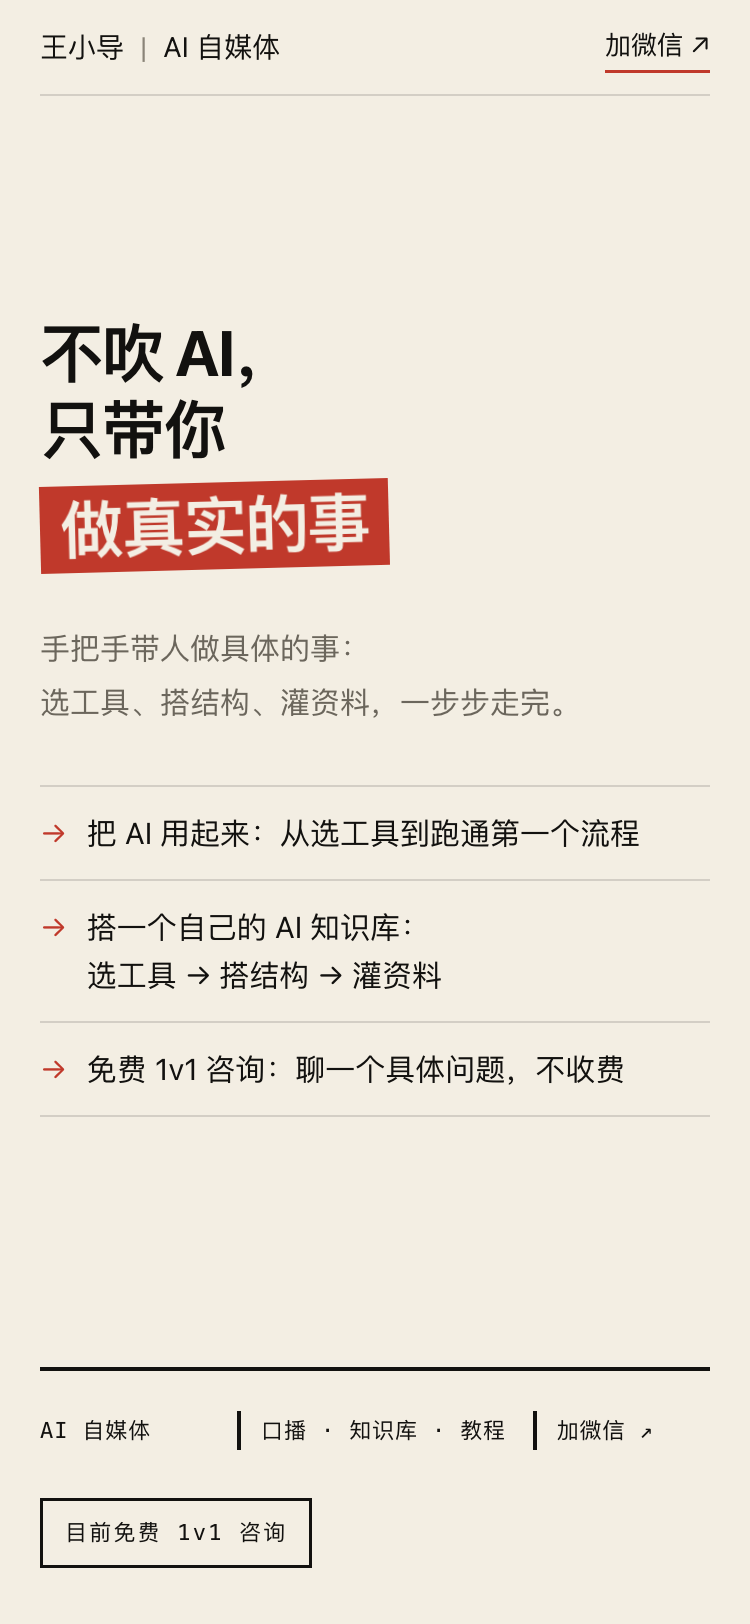
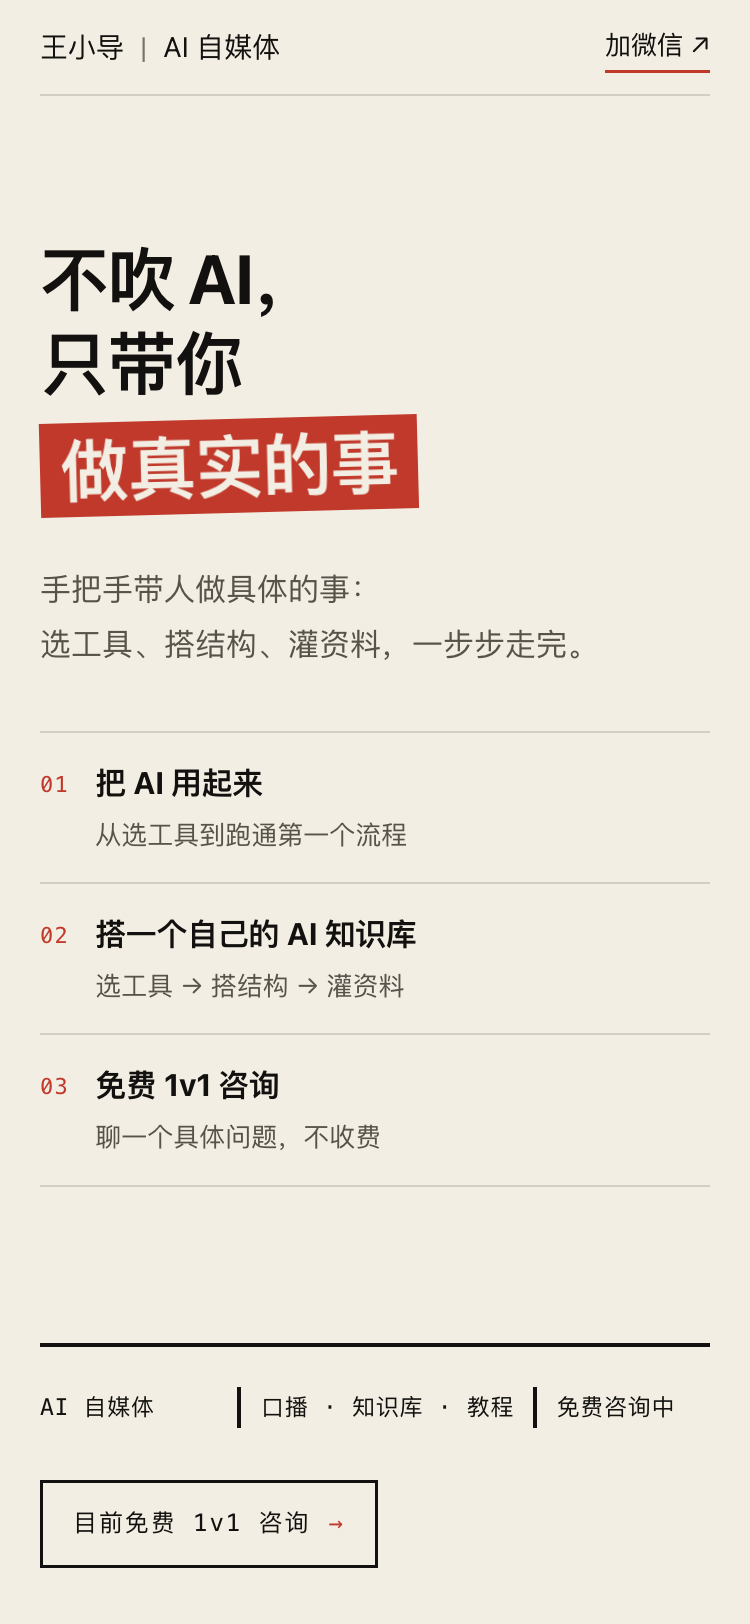
UI 复审：首屏重排、行动点加强、咨询块与数字带修整
- 首屏清单改为编号两行式，标题与条目字号上调，中段空洞 145→75px
- 桌面左右两栏底部对齐，收成一个闭合版块
- 「目前免费 1v1 咨询」由图章改为 44px 高可点链接，hover 反色
- 咨询块收成单列，按钮加大到 54px 高，右下加署名水印填补空白
- 数字带标签 10.5→12px，分隔线改纸色，比例不再失衡
- 灰字 #6B665C → #57534B，小字 11→12px，整页不再发灰
- 同步更新 README 首屏截图

diff --git a/index.html b/index.html
@@ -29,7 +29,7 @@
     --card:#FFFDF8;
     --ink:#12110F;
     --red:#C0392B;
-    --gray:#6B665C;
+    --gray:#57534B;
     --line:rgba(18,17,15,.14);
     --sans:-apple-system,BlinkMacSystemFont,"PingFang SC","HarmonyOS Sans SC","MiSans","Noto Sans SC","Microsoft YaHei",sans-serif;
     --mono:ui-monospace,"SF Mono",Menlo,Consolas,"PingFang SC",monospace;
@@ -65,7 +65,7 @@
     gap:12px;height:48px;border-bottom:1px solid var(--line);
   }
   .masthead .who{font-size:14px;white-space:nowrap}
-  .masthead .who span{color:#8A8478;margin:0 8px}
+  .masthead .who span{color:#7A7468;margin:0 8px}
   .masthead .wx{
     font-size:13px;border-bottom:1.5px solid var(--red);
     padding-bottom:1px;white-space:nowrap;
@@ -92,8 +92,8 @@
   .hero-foot{animation-delay:.52s}
 
   h1{
-    font-size:clamp(28px,8.5vw,48px);
-    font-weight:700;line-height:1.2;letter-spacing:-.03em;
+    font-size:clamp(31px,9.2vw,50px);
+    font-weight:700;line-height:1.22;letter-spacing:-.02em;
   }
   .sticker{
     display:inline-block;background:var(--red);color:var(--paper);
@@ -105,27 +105,37 @@
     from{transform:rotate(6deg) scale(.92);opacity:0}
     to{transform:rotate(-1.5deg) scale(1);opacity:1}
   }
-  .lede{margin-top:24px;font-size:15px;color:var(--gray);max-width:30em}
+  .lede{margin-top:22px;font-size:15.5px;line-height:1.75;color:var(--gray);max-width:30em}
   .nb{white-space:nowrap}
-  .can{list-style:none;margin-top:28px;border-top:1px solid var(--line);max-width:34em}
+  .can{list-style:none;margin-top:30px;border-top:1px solid var(--line);max-width:34em}
   .can li{
-    display:flex;gap:10px;padding:11px 0;
-    border-bottom:1px solid var(--line);font-size:15px;line-height:1.6;
+    display:flex;gap:13px;padding:14px 0;
+    border-bottom:1px solid var(--line);line-height:1.45;
   }
-  .can li i{color:var(--red);font-style:normal;flex:none}
+  .can li .no{
+    font-family:var(--mono);font-size:11px;font-style:normal;letter-spacing:.06em;
+    color:var(--red);flex:none;padding-top:4px;
+  }
+  .can li b{display:block;font-size:15.5px;font-weight:700;letter-spacing:-.01em}
+  .can li .sub{display:block;font-size:13px;color:var(--gray);margin-top:4px;line-height:1.55}
 
-  .hero-foot{margin-top:auto;padding-top:40px}
+  .hero-foot{margin-top:auto;padding-top:32px}
   .rule{height:2px;background:var(--ink)}
   .strip{display:grid;grid-template-columns:1fr 1.5fr .9fr;margin-top:20px}
-  .strip div{font-family:var(--mono);font-size:11px;letter-spacing:.04em}
+  .strip div{font-family:var(--mono);font-size:11.5px;letter-spacing:.03em}
   .strip div + div{border-left:2px solid var(--ink);padding-left:10px}
   .strip div:first-child{padding-right:10px}
   .stamp{
-    display:inline-block;margin-top:24px;
-    border:1.5px solid var(--ink);padding:6px 11px;
-    font-family:var(--mono);font-size:11px;letter-spacing:.1em;
+    display:inline-flex;align-items:center;gap:9px;
+    margin-top:26px;min-height:44px;padding:0 15px;
+    border:1.5px solid var(--ink);
+    font-family:var(--mono);font-size:12px;letter-spacing:.08em;
+    transition:background .18s linear,color .18s linear;
     animation:stamp .4s .5s cubic-bezier(.16,1,.3,1) both;
   }
+  .stamp .arr{color:var(--red);transition:color .18s linear}
+  .stamp:hover,.stamp:focus-visible{background:var(--ink);color:var(--paper)}
+  .stamp:hover .arr,.stamp:focus-visible .arr{color:var(--paper)}
   @keyframes stamp{
     from{transform:scale(1.12);opacity:0;border-color:transparent}
     to{transform:scale(1);opacity:1;border-color:var(--ink)}
@@ -148,7 +158,7 @@
     border:2px solid var(--ink);box-shadow:4px 4px 0 var(--ink);
     background:#EFE9DC;position:relative;overflow:hidden;
     display:grid;place-items:center;
-    font-size:34px;font-weight:700;letter-spacing:0;
+    font-size:40px;font-weight:700;letter-spacing:0;
   }
   .avatar img{position:absolute;inset:0;width:100%;height:100%;object-fit:cover}
   .about-text{display:flex;gap:14px}
@@ -193,17 +203,17 @@
   }
   .band .inner{
     max-width:1120px;margin:0 auto;padding:0 var(--pad);
-    display:grid;grid-template-columns:repeat(3,1fr);
+    display:grid;grid-template-columns:1fr 1fr 1.24fr;
   }
   .band .cell{padding:0 2px;min-width:0}
-  .band .cell + .cell{border-left:1px solid rgba(192,57,43,.9);padding-left:14px}
+  .band .cell + .cell{border-left:1px solid rgba(243,238,227,.22);padding-left:16px}
   .band .n{
-    font-size:clamp(38px,10vw,60px);font-weight:700;line-height:1;
-    letter-spacing:-.04em;font-variant-numeric:tabular-nums;
+    font-size:clamp(40px,10.5vw,56px);font-weight:700;line-height:1;
+    letter-spacing:-.03em;font-variant-numeric:tabular-nums;
   }
   .band .l{
-    font-family:var(--mono);font-size:10.5px;letter-spacing:.06em;
-    color:rgba(243,238,227,.62);margin-top:10px;line-height:1.6;
+    font-family:var(--mono);font-size:12px;letter-spacing:.04em;
+    color:rgba(243,238,227,.7);margin-top:12px;line-height:1.6;
   }
 
   /* 咨询 */
@@ -226,15 +236,17 @@
     color:rgba(243,238,227,.9);max-width:30em;
   }
   .copy{
-    display:inline-flex;align-items:center;gap:8px;
+    display:inline-flex;align-items:center;justify-content:center;gap:8px;
     background:var(--ink);color:var(--paper);border:0;border-radius:2px;
-    padding:15px 26px;font-family:var(--sans);font-size:16px;cursor:pointer;
+    min-height:54px;padding:0 34px;font-family:var(--sans);font-size:16.5px;
+    cursor:pointer;
     transition:transform .1s linear,background .2s,color .2s;
   }
-  .act{margin-top:28px}
+  .act{margin-top:30px}
   .copy:active{transform:translateY(1px)}
   .copy.done{background:var(--paper);color:var(--ink)}
   .contact.shake{animation:shake .18s linear 1}
+  .contact .mark{display:none}
   @keyframes shake{
     0%,100%{transform:translate(0,0)}
     50%{transform:translate(1px,-1px)}
@@ -246,8 +258,8 @@
     max-width:1120px;margin:0 auto;
     padding:20px var(--pad) calc(20px + env(safe-area-inset-bottom));
     display:flex;justify-content:space-between;align-items:center;gap:12px;
-    font-family:var(--mono);font-size:11px;letter-spacing:.06em;
-    color:rgba(243,238,227,.72);
+    font-family:var(--mono);font-size:12px;letter-spacing:.05em;
+    color:rgba(243,238,227,.78);
   }
 
   @media (prefers-reduced-motion:no-preference){
@@ -278,26 +290,32 @@
     }
     h1{font-size:clamp(48px,4.6vw,68px)}
     .lede{font-size:17px;margin-top:32px;max-width:none}
-    .can{grid-column:2;grid-row:1 / span 2;align-self:center;margin-top:0;max-width:none}
-    .can li{font-size:16px;padding:14px 0}
-    .hero-foot{padding-top:56px}
+    .can{grid-column:2;grid-row:1 / span 2;align-self:end;margin-top:0;max-width:none}
+    .can li{padding:18px 0}
+    .can li b{font-size:16.5px}
+    .can li .sub{font-size:13.5px;margin-top:5px}
+    .hero-foot{padding-top:32px}
     .sec-head{margin-bottom:32px}
     .sec-head h2{font-size:32px}
     .about{grid-template-columns:150px 1fr;gap:32px;align-items:start}
-    .avatar{width:150px;height:150px;font-size:52px;box-shadow:6px 6px 0 var(--ink)}
+    .avatar{width:150px;height:150px;font-size:58px;box-shadow:6px 6px 0 var(--ink)}
     .about-text .bar{width:8px}
     .cards{grid-template-columns:repeat(3,1fr);gap:22px}
     .card:last-child{grid-column:auto}
     .card{padding:28px 24px}
     .about-text p{max-width:38em}
     .band{padding:56px 0}
-    .contact{padding:80px 0 72px}
-    .contact .inner{
-      display:grid;grid-template-columns:1fr auto;
-      align-items:end;column-gap:56px;
+    .band .inner{grid-template-columns:repeat(3,1fr)}
+    .contact{padding:88px 0 80px;position:relative;overflow:hidden}
+    .contact .note{max-width:32em}
+    .act{margin-top:34px;text-align:left}
+    .contact .mark{
+      display:block;
+      position:absolute;right:48px;bottom:18px;
+      font-size:clamp(80px,10vw,140px);font-weight:700;letter-spacing:-.05em;
+      line-height:1;color:rgba(243,238,227,.16);
+      pointer-events:none;user-select:none;
     }
-    .contact .note{max-width:34em}
-    .act{margin-top:0;text-align:right}
   }
 
   @media (prefers-reduced-motion:reduce){
@@ -321,9 +339,18 @@
     <p class="lede"><span class="nb">手把手带人做具体的事：</span><span class="nb">选工具、搭结构、灌资料，一步步走完。</span></p>
 
     <ul class="can">
-      <li><i>→</i><span><span class="nb">把 AI 用起来：</span><span class="nb">从选工具到跑通第一个流程</span></span></li>
-      <li><i>→</i><span><span class="nb">搭一个自己的 AI 知识库：</span><span class="nb">选工具 → 搭结构 → 灌资料</span></span></li>
-      <li><i>→</i><span><span class="nb">免费 1v1 咨询：</span><span class="nb">聊一个具体问题，不收费</span></span></li>
+      <li>
+        <i class="no">01</i>
+        <div><b>把 AI 用起来</b><span class="sub">从选工具到跑通第一个流程</span></div>
+      </li>
+      <li>
+        <i class="no">02</i>
+        <div><b>搭一个自己的 AI 知识库</b><span class="sub">选工具 → 搭结构 → 灌资料</span></div>
+      </li>
+      <li>
+        <i class="no">03</i>
+        <div><b>免费 1v1 咨询</b><span class="sub">聊一个具体问题，不收费</span></div>
+      </li>
     </ul>
   </div>
 
@@ -332,9 +359,9 @@
     <div class="strip">
       <div>AI 自媒体</div>
       <div>口播 · 知识库 · 教程</div>
-      <div>加微信 ↗</div>
+      <div>免费咨询中</div>
     </div>
-    <div class="stamp">目前免费 1v1 咨询</div>
+    <a class="stamp" href="#contact">目前免费 1v1 咨询<span class="arr">→</span></a>
   </div>
 </header>
 
@@ -368,7 +395,7 @@
         <div class="flow">
           <span>选工具</span><em>→</em><span>搭结构</span><em>→</em><span>灌资料</span>
         </div>
-        <p class="did"><b>我做了什么：</b>选工具、搭结构、灌资料，全流程自己走完。</p>
+        <p class="did"><b>我做了什么：</b>给自媒体做内容生产，全流程自己走完。</p>
       </article>
 
       <article class="card">
@@ -409,6 +436,7 @@
         <span id="copyText">复制微信号</span>
       </button>
     </div>
+    <div class="mark" aria-hidden="true">王小导</div>
   </div>
 </section>
 
